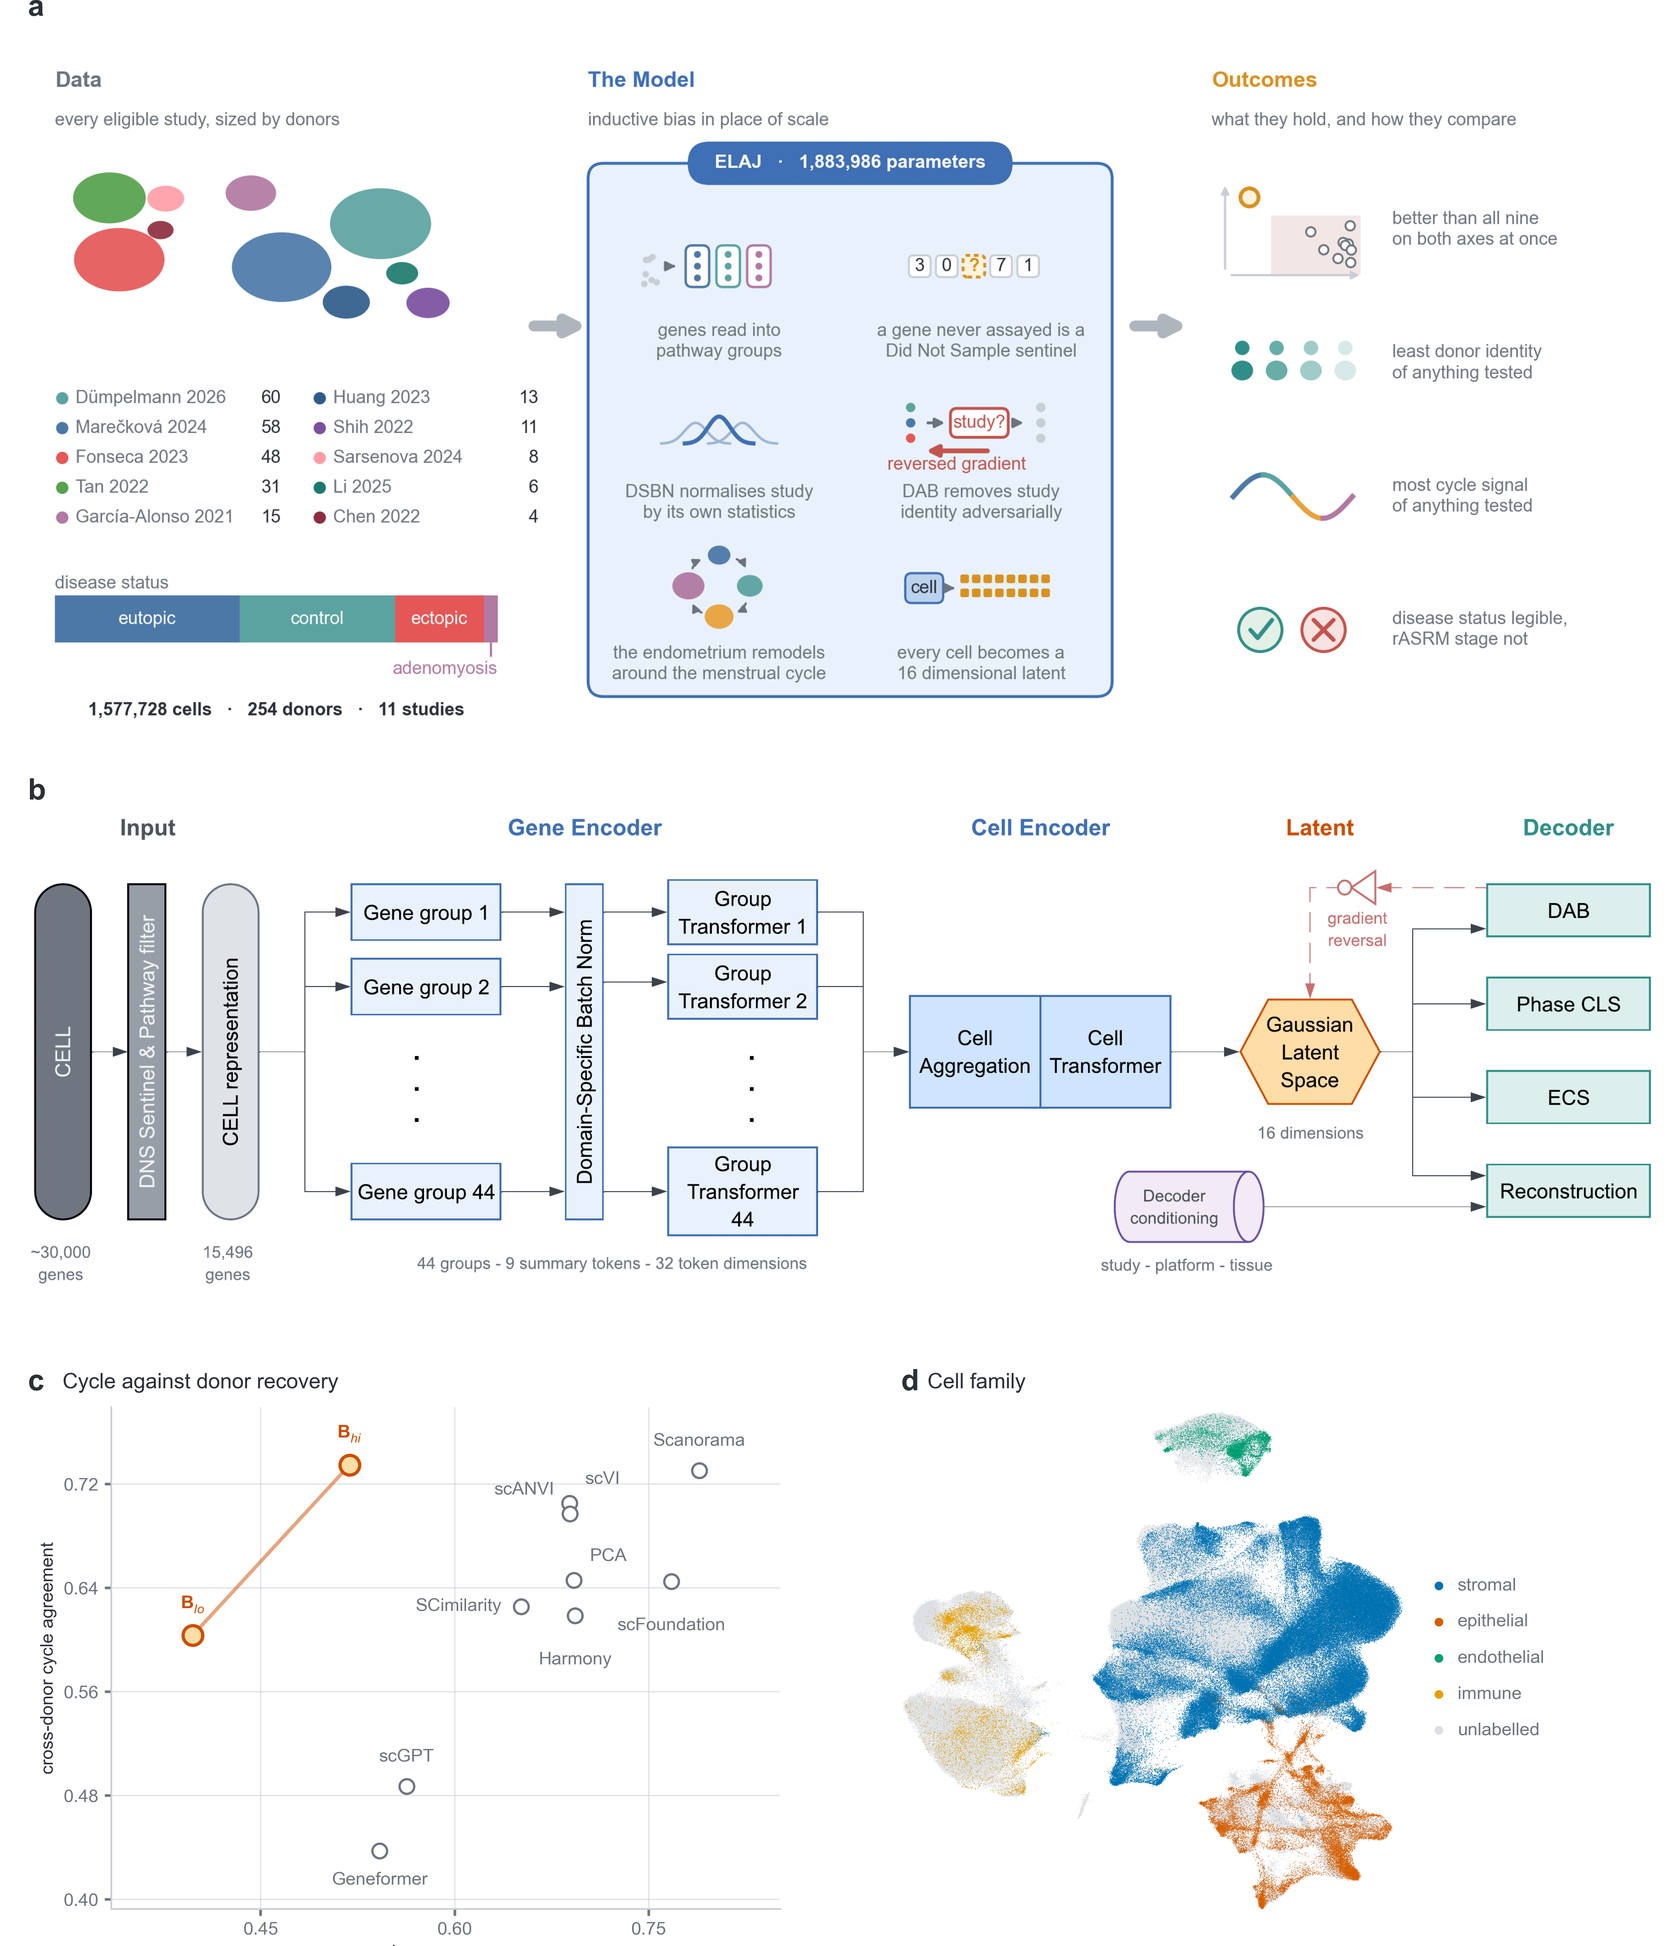
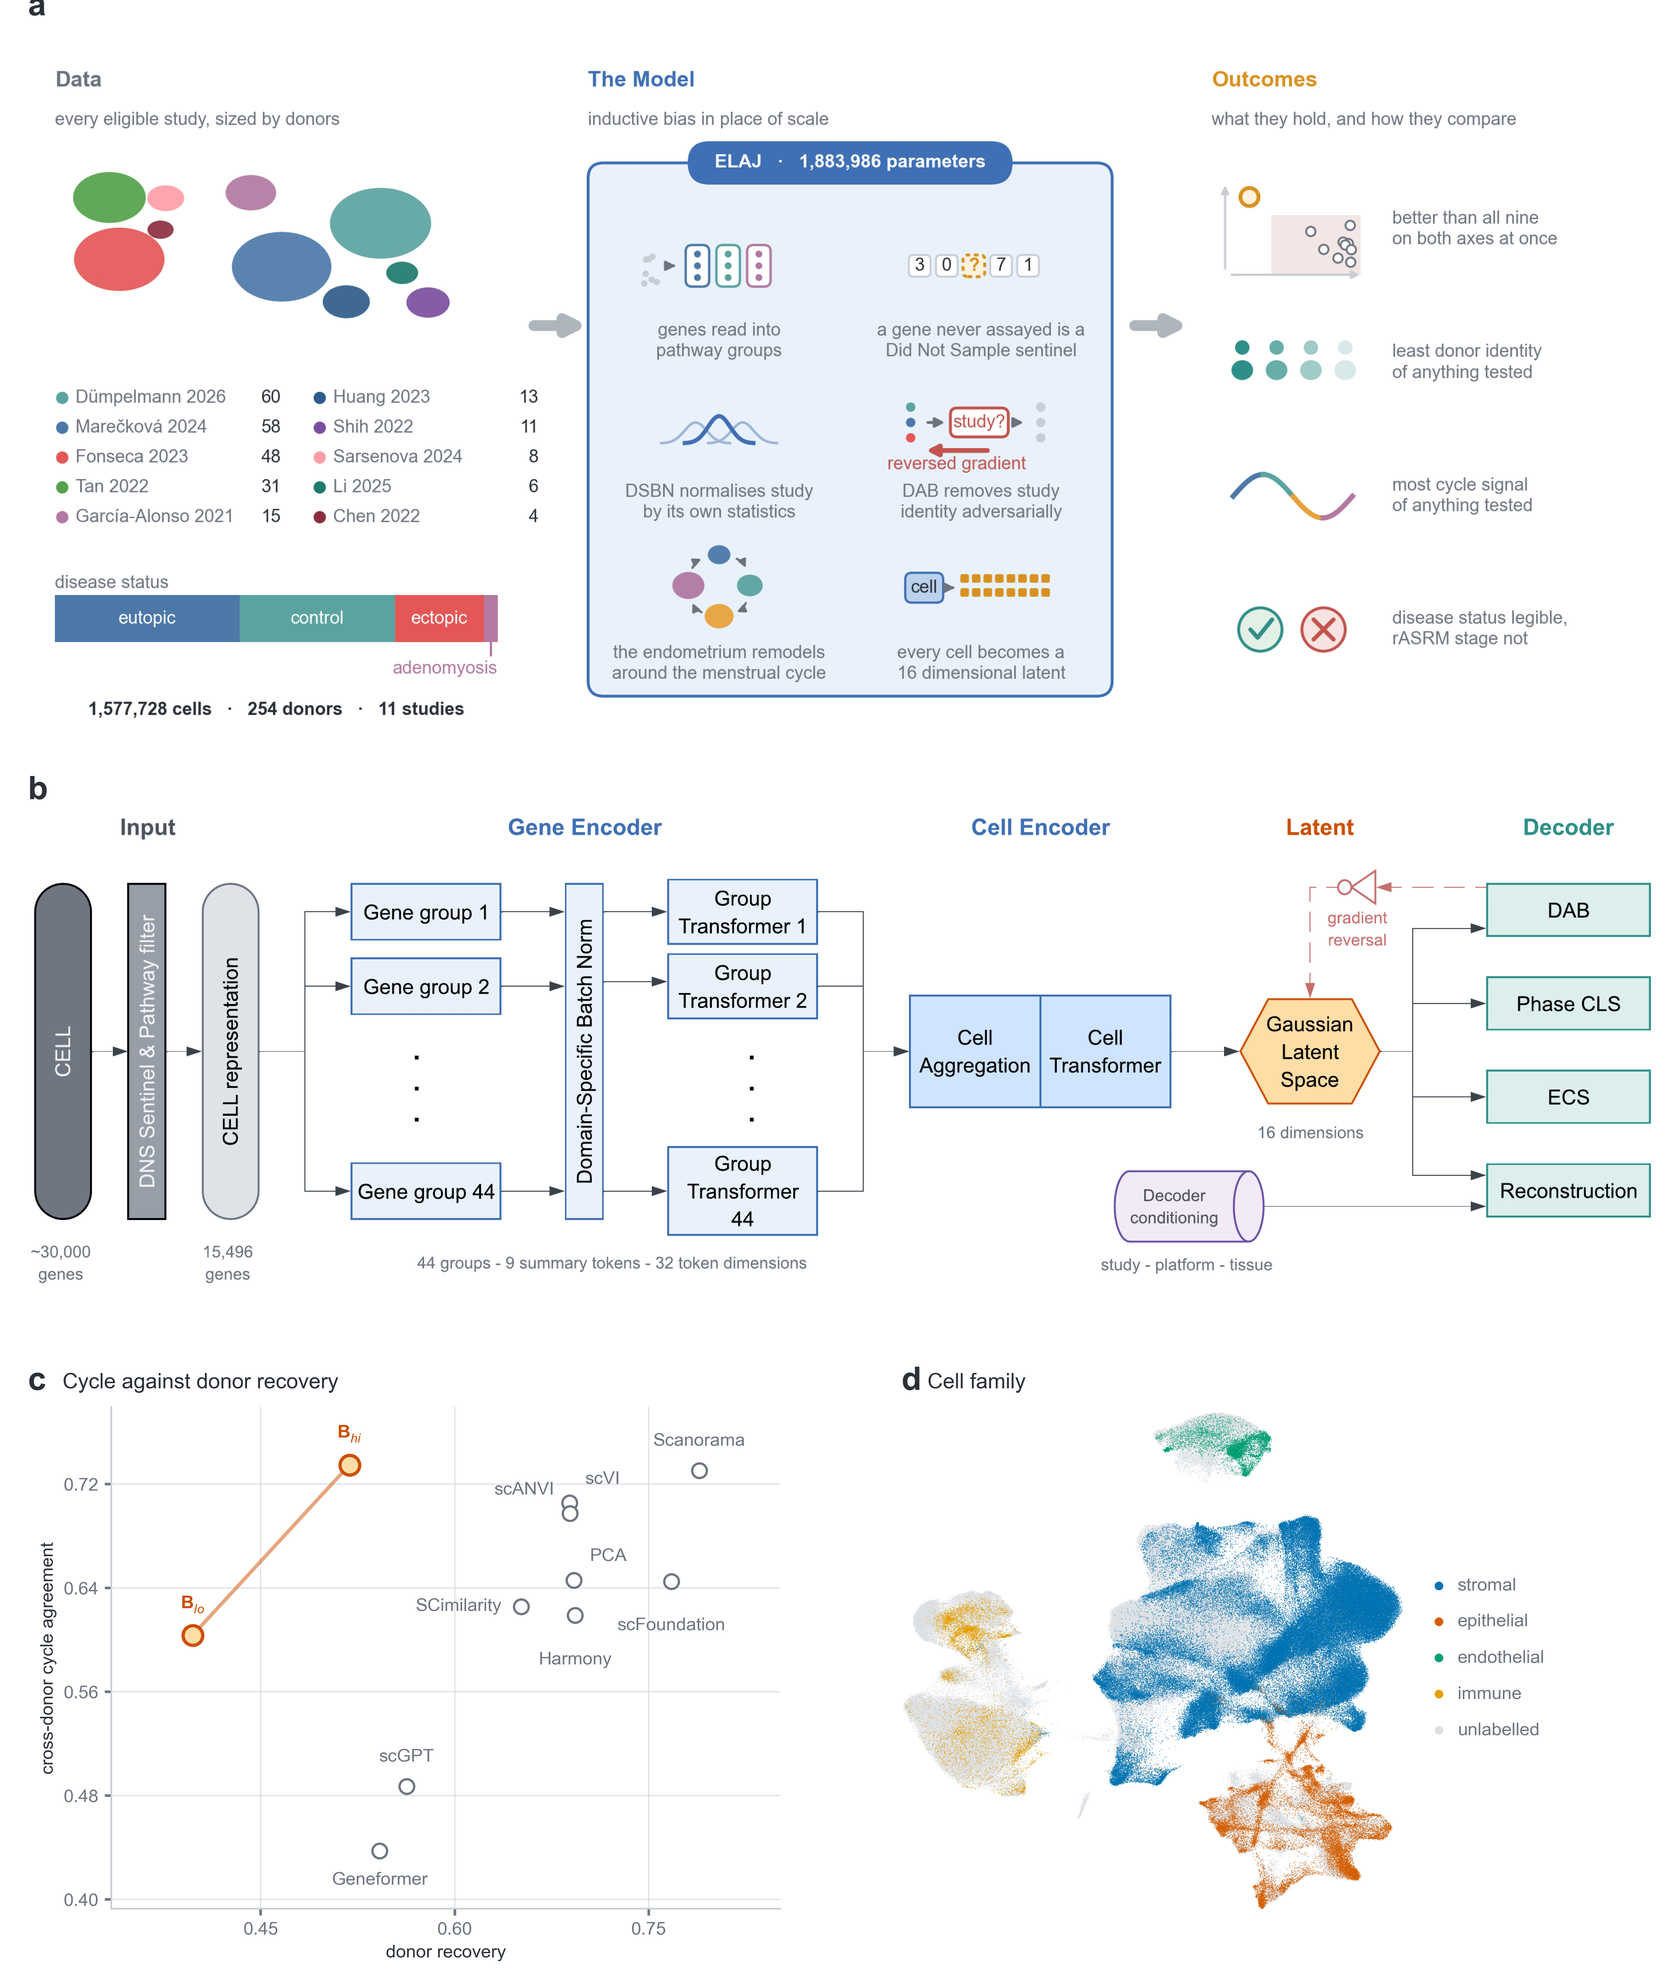
Fig 1c x-label was clipped; record the 11 November group feedback

diff --git a/figures/scripts/figure1.py b/figures/scripts/figure1.py
@@ -155,7 +155,7 @@ STUDY_C = ["#5BA3A0",   # teal         (largest study)
 GREY_PT = "#DCE0E4"      # cells with no label, in both panels
 
 # ── type scale, scGPT's, and nothing outside it ──────────────────────────
-FS_LETTER, FS_TITLE, FS_BODY = 9.0, 6.5, 5.5
+FS_LETTER, FS_TITLE, FS_BODY = 10.0, 6.5, 5.5
 plt.rcParams.update({"font.family": "Arial", "font.size": FS_BODY,
                      "text.color": INK, "axes.labelcolor": INK,
                      "xtick.color": SOFT, "ytick.color": SOFT,
@@ -328,7 +328,10 @@ def main() -> None:
 
     # ── layout, every number a millimetre ────────────────────────────────
     W = 180.0
-    L, R, T, B = 3.0, 2.0, 4.0, 4.0
+    L, R, T, B = 3.0, 2.0, 4.0, 8.0
+    #                         ^ panel c spends ~6 mm below its axes on
+    #                         tick labels and the x-label. At B=4 the
+    #                         x-label was clipped by the canvas edge.
     aw = W - L - R
     absm = mpimg.imread(ABSTRACT)
     abh = aw * absm.shape[0] / absm.shape[1]     # each panel's own aspect,
@@ -376,6 +379,13 @@ def main() -> None:
     head(ax_b, "b")
     head(ax_c, "c", "Cycle against donor recovery", dx=-GUT / (cw - GUT))
     head(ax_d, "d", "Cell family")
+
+    # the clipped x-label was invisible until a reader found it, so it is
+    # now a build failure rather than a defect someone has to spot
+    fig.canvas.draw()
+    for ax, what in ((ax_c, "panel c x-label"),):
+        bb = ax.xaxis.label.get_window_extent()
+        assert bb.y0 >= 0, f"{what} is clipped {-bb.y0:.1f} px off the canvas"
 
     HERE.mkdir(parents=True, exist_ok=True)
     fig.savefig(HERE / "figure1.png", dpi=int(os.environ.get("FIGDPI", 600)))

diff --git a/PRIORITY.md b/PRIORITY.md
@@ -16,7 +16,43 @@ one-size-fits-all atlas protocol exists. Not a framework and not a method
 paper: both owe a second dataset we do not have and cannot get. See
 CONTINUITY for the four rejected framings and why each died.
 
+The **11 November group feedback** is in `REVIEW_FEEDBACK.md`, verbatim. It
+does not reopen the story. It asks for the story to be made legible, and it
+overturns three things recorded here as settled.
+
 ---
+
+## Decisions AW owes before the next block of work
+
+1. **Three figures and a table, or six display items?** The supervisor's
+   number against the settled one. He also wants the frontier explained in
+   far more depth and the Figure 4 UMAPs discussed in detail, which argues
+   for more figure space, not less. The resolution the feedback itself
+   offers: depth goes into the **prose and the supplementary**, and the main
+   set shrinks. AW has already said grain of salt.
+2. **If three: which three, and in what order?** The supervisor asked for
+   current Fig 4 to become Fig 2. The set that falls out is Fig 1 unchanged,
+   Fig 2 the nine endometriosis UMAPs, Fig 3 the frontier in depth, Table 1.
+   That sends the current Fig 3, both latents by family and phase, to
+   Supplementary, and it puts the atlas before the integration evidence.
+   **Results has to reorder with it.**
+3. **Is the reproduction analysis in scope?** *"Some work on reproducing
+   individual dataset results on the full corpus is needed."* New analysis,
+   needs HPC, and it overturns "no further calculation". See Tier 0.
+
+---
+
+## Tier 0. New analysis, because it gates three sections at once
+
+- [ ] **Reproduce individual-study results on the pooled corpus.** The
+      supervisor's words: *"this is partially results and discussions because
+      we compare what they have shown and what we are able to show."* It
+      feeds the Introduction's "what other studies have shown", a Results
+      passage, and the Discussion's third comparison. **Nothing else in this
+      list needs compute; this does.** Scope it with AW first: which claims,
+      from which of the eleven studies, measurable how. The standing rule
+      "no per-study numbers for metadata in the latent" still binds, so any
+      reproduction needing a per-study latent breakdown is out.
 
 ## Tier 1. The sections, in the order they should be done
 
@@ -28,6 +64,17 @@ CONTINUITY for the four rejected framings and why each died.
       not before. `INTRODUCTION_STRUCTURE.md` is from the old framing and
       has to be rewritten before any prose, per that file's own contract.
       Budget it against Hrovatin's five stages.
+      **The 11 November spine, from the supervisor, is now the paragraph
+      map**: why scRNA, why endometriosis, why a disease atlas, what the
+      other endometriosis studies have shown, what foundation models can say
+      at single-disease level and why an atlas beats that, then what we do.
+      Two consequences. The delay and misdiagnosis material stops being the
+      opening hook and becomes the evidence under **why endometriosis**,
+      which also settles where the supervisor's cut lands. And the
+      foundation-model sentence grows from one line into a paragraph, with
+      the warning attached: *"I'd be careful of overreaching here."*
+      The message that must land is that **a disease atlas is a great thing
+      to have for a disease**.
 - [ ] **Abstract: full rewrite.** Cannot be patched; it was written to a
       different story. Also still carries `[42]`, avoid the abbreviation,
       and runs 160 words against NMI's 150.
@@ -37,19 +84,45 @@ CONTINUITY for the four rejected framings and why each died.
       paper as an anecdote rather than a case study. Declarative headers in
       IBDex's style. Results now interprets, per the 9 November ruling: one
       precise line of reading per subsection, argument still in Discussion.
-- [ ] **Discussion: remould.** Eight paragraphs written to the old framing.
-      The scIB and donor-memorisation findings stay here as results about
-      the field's instrument, NOT in Methods.
+      **Two passages get real depth, per 11 November.** The frontier must be
+      explained properly and must carry the dominance result: all nine
+      competing representations are strictly worse than ELAJ$_{B\,hi}$ on
+      **both** axes, nine of nine. The supervisor's reason for wanting it is
+      explicit, *"SOTA status is important"* and it *"cements the paper's
+      place in a journal like NMI"*. And the Figure 4 UMAPs get discussed in
+      detail rather than pointed at. This sits against the 9 November rule
+      to keep Results tight; depth here means more reading per number, not
+      more words per number.
+- [ ] **Discussion: remould, and it is now sectioned.** Eight paragraphs
+      written to the old framing become subheaded sections comparing us to
+      three things, in the supervisor's order: **foundation models** (an
+      atlas gives more about one disease than a foundation model does),
+      **baselines** (a better architecture earns the frontier), and
+      **single datasets** (scale lets us confirm or contradict what small
+      cohorts claimed). The scIB and donor-memorisation findings stay here
+      as results about the field's instrument, NOT in Methods.
+      **A fourth section is required: limitations and future work**, and it
+      must answer the three questions the supervisor predicts a reader will
+      ask. Does this become a good foundation model. Are foundation models
+      bad. Would it work on any disease. **This is the one licensed
+      exception to "do not pre-empt objections nobody has made"**, because
+      he has made them.
 - [ ] **Methods: tweaks only.** Add a *Comparison methods* cross-reference
       to the new framing, and check nothing contradicts the case-study
       shape. The `\flow{}` cuts and the KL-ramp correction are already in.
 
 ## Tier 2. Supplementary and Extended Data. Nothing exists.
 
-- [ ] **The entire Supplementary Information section.** Not started. The
-      supervisor flagged it as completely missing and AW accepted that.
-      IBDex ships 26 supplementary tables and 6 figures, which is the scale
-      he is used to seeing.
+- [ ] **The entire Supplementary Information section.** Not started, and
+      **it was upgraded on 11 November from a gap to a destination**:
+      *"There needs to be a lot of supplementary figures and data. Tables,
+      figures of all kinds, etc. Reducing figures in the main prose is
+      countered by figures in supplementary. All your crazy ideas can fit
+      here."* IBDex ships 26 supplementary tables and 6 figures, which is
+      the scale he is used to seeing and the reference he named. Everything
+      cut from the main set lands here rather than being lost: the current
+      Figure 3 if the three-figure decision goes through, the ablation
+      UMAPs, the dissociation panel, the per-arm tables.
 - [ ] **Supplementary Figure 1, the ablation UMAPs.** Study-mixing UMAPs for
       ELAJ$_{B\,hi}$ and the five ablation arms. Sources on disk at
       `Outputs/{p_series,a_series}/*/figures/best/`; redraw from the latents.
@@ -66,11 +139,18 @@ CONTINUITY for the four rejected framings and why each died.
 
 - [ ] **Figure 1's legend is stale.** It describes five panels; there are
       now four, and **panel a has never been described at all**.
-- [ ] **Figure 2** must now carry the frontier properly, including the
-      cycle-against-study-separation scatter cut from Figure 1.
+- [ ] **The renumbering, once decision 2 lands.** Script names match paper
+      numbers, so `figure4.py` becoming Figure 2 renames files, captions,
+      every `\ref`, and both auditors' pins.
+- [ ] **The frontier figure** must carry the frontier properly, including
+      the cycle-against-study-separation scatter cut from Figure 1, and it
+      now has to carry the SOTA argument visually as well as in prose.
 - [ ] **Every panel referenced in prose.** Figures 2, 3 and 4 still have
       panels that no sentence points at.
-- [ ] Figure 1 is 209.5 mm tall. It fits, but it is close to a full page.
+- [x] Figure 1 panel c's x-label was clipped by the canvas edge. Bottom
+      margin 4 to 8 mm; the figure is 213.5 mm tall and an assert now fails
+      the render rather than leaving it for a reader to spot.
+- [ ] Figure 1 is 213.5 mm tall. It fits, but it is close to a full page.
 
 ## Tier 4. Mechanical, none of it blocking
 

diff --git a/REVIEW_FEEDBACK.md b/REVIEW_FEEDBACK.md
@@ -97,3 +97,77 @@ consistent; IBDex is American.
 4. **Then tackle items one at a time.**
 
 Do not run ahead of this order.
+
+---
+
+# Group feedback, 11 November 2026
+
+**Verbatim, as AW gave it.** Presented Figure 1 and Figure 4 to the
+supervisor and others in his group. Same contract as above: nothing here is
+softened or quietly dropped.
+
+- Fig 1 is good now (the x-axis label in fig 1 c is getting cut off though)
+- I presented our current fig 1 and current fig 4. My guide believes that 3
+  figures and a table should be enough. I would take that with a grain of
+  salt though. He suggested that our current fig 4 should be fig 2.
+- There needs to be a lot of supplementary figures and data. Tables, figures
+  of all kinds, etc. See IBDex supplementary for reference. Reducing figures
+  in the main prose is countered by figures in supplementary. All your crazy
+  ideas can fit here.
+- Intro needs to clear up the story a little more from the foundations:
+  - why scRNA
+  - why endometriosis
+  - why disease atlas
+- Intro also needs to say:
+  - what other endometriosis studies have shown (this is partially results
+    and discussions because we compare what they have shown and what we are
+    able to show. Some work on reproducing individual dataset results on the
+    full corpus is needed)
+  - what foundation models are capable of saying on a single disease level
+    and how having a disease atlas on a study beats foundation model
+    approach. (I'd be careful of overreaching here. However, the main message
+    of; having a disease atlas is a great thing for a disease, should be very
+    evident)
+- Results should focus deeply on what is coming out of the model:
+  - discuss UMAPs from fig 4 in more detail.
+  - Frontier needs to be explained clearly and in detail. It needs to
+    highlight the significance of beating everybody, highlight the usefulness
+    of having a disease atlas against smaller datasets, etc. This cements the
+    paper's place in a journal like NMI. SOTA status is important.
+- Discussion needs to be sectioned and should talk about us in comparison to
+  3 things: foundation models (how having a disease atlas gives more info
+  than a foundation model does), baselines (how building a better
+  architecture helps), single datasets (how we can prove or disprove the
+  claims made by smaller datasets because of a much larger scale).
+- We need to be clear that it is a disease atlas especially because we are
+  comparing against foundation models. It is easy for the reader to ask "does
+  this translate into a great foundation model" or "what can you say about
+  foundation models being shit" or "does that mean it would work on any
+  disease". This needs to be future work and limitations.
+
+## What this batch changes, and what it does not
+
+**The one-line story survives intact and is reinforced.** "We need to be
+clear that it is a disease atlas" is the first noun of the line AW settled on
+11 November. Nothing here reopens the framing; this batch is about making the
+framing legible.
+
+**Three rules are overturned or bent by this feedback.** Each is recorded in
+`CONTINUITY.md` as settled, so each needs AW's explicit word:
+
+| settled rule | what this batch does to it |
+|---|---|
+| "Six display items, not eight" | the supervisor says three figures and a table. AW: grain of salt |
+| "No further calculation unless a reviewer asks or something is wrong" | reproducing individual-study results on the pooled corpus is new analysis, and a reviewer has in effect now asked |
+| my failure mode 1, "do not pre-empt objections nobody has made" | the three reader questions are now named by the supervisor, so answering them is required rather than defensive |
+
+**One instruction is new work, not writing**: *"Some work on reproducing
+individual dataset results on the full corpus is needed."* It is the largest
+item in this batch by effort and the only one that needs HPC. Scope it with
+AW before building anything.
+
+**It also brushes a standing rule.** "No per-study numbers for any metadata
+in the latent" stands. Testing a published claim against the pooled corpus
+runs the other way, their claim against our 1.58M cells, and is allowed. Any
+reproduction that needs a per-study breakdown of a latent metadata test is
+not, and has to be redesigned or dropped.
